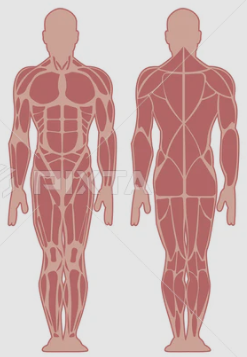
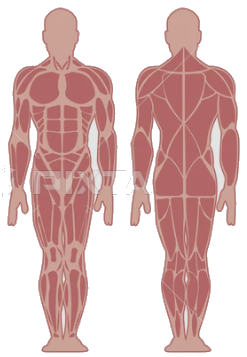
Recovery map: transparent figure background + green base state
Flood-fill background removal from muscle.png corners erases the solid gray
(229,229,229) background (41,883 pixels), leaving figures on transparent.
Adds dColor() which returns green for unlogged muscles so all regions show
a recovery status by default. opa() simplified to constant 0.45. Table
badges unchanged and still show the correct Not Logged / Recovering etc text.

diff --git a/frontend/src/routes/recovery/+page.svelte b/frontend/src/routes/recovery/+page.svelte
@@ -40,10 +40,13 @@
     return m ? STATUS_COLOR[m.status] : '#333333';
   }
 
-  function opa(muscle) {
+  function dColor(muscle) {
     const m = muscles.find(m => m.muscle === muscle);
-    return (!m || m.status === 'gray') ? 0 : 0.45;
+    if (!m || m.status === 'gray') return STATUS_COLOR.green;
+    return STATUS_COLOR[m.status];
   }
+
+  function opa() { return 0.45; }
 
   function capitalize(s) {
     return s.charAt(0).toUpperCase() + s.slice(1);
@@ -84,27 +87,27 @@
             <image href="/muscle.png" x="0" y="0" width="247" height="357"/>
 
             <!-- Chest / Pectorals -->
-            <ellipse cx="48" cy="112" rx="20" ry="20" fill={color('chest')} opacity={opa('chest')}/>
-            <ellipse cx="76" cy="112" rx="20" ry="20" fill={color('chest')} opacity={opa('chest')}/>
+            <ellipse cx="48" cy="112" rx="20" ry="20" fill={dColor('chest')} opacity={opa()}/>
+            <ellipse cx="76" cy="112" rx="20" ry="20" fill={dColor('chest')} opacity={opa()}/>
 
             <!-- Shoulders / Anterior deltoid -->
-            <ellipse cx="22" cy="87" rx="13" ry="12" fill={color('shoulders')} opacity={opa('shoulders')}/>
-            <ellipse cx="101" cy="87" rx="13" ry="12" fill={color('shoulders')} opacity={opa('shoulders')}/>
+            <ellipse cx="22" cy="87" rx="13" ry="12" fill={dColor('shoulders')} opacity={opa()}/>
+            <ellipse cx="101" cy="87" rx="13" ry="12" fill={dColor('shoulders')} opacity={opa()}/>
 
             <!-- Biceps -->
-            <ellipse cx="17" cy="128" rx="8" ry="22" fill={color('biceps')} opacity={opa('biceps')}/>
-            <ellipse cx="106" cy="128" rx="8" ry="22" fill={color('biceps')} opacity={opa('biceps')}/>
+            <ellipse cx="17" cy="128" rx="8" ry="22" fill={dColor('biceps')} opacity={opa()}/>
+            <ellipse cx="106" cy="128" rx="8" ry="22" fill={dColor('biceps')} opacity={opa()}/>
 
             <!-- Abs -->
-            <rect x="38" y="136" width="47" height="68" rx="6" fill={color('abs')} opacity={opa('abs')}/>
+            <rect x="38" y="136" width="47" height="68" rx="6" fill={dColor('abs')} opacity={opa()}/>
 
             <!-- Quads -->
-            <rect x="27" y="220" width="30" height="82" rx="8" fill={color('quads')} opacity={opa('quads')}/>
-            <rect x="66" y="220" width="30" height="82" rx="8" fill={color('quads')} opacity={opa('quads')}/>
+            <rect x="27" y="220" width="30" height="82" rx="8" fill={dColor('quads')} opacity={opa()}/>
+            <rect x="66" y="220" width="30" height="82" rx="8" fill={dColor('quads')} opacity={opa()}/>
 
             <!-- Calves (front) -->
-            <ellipse cx="42" cy="328" rx="13" ry="18" fill={color('calves')} opacity={opa('calves')}/>
-            <ellipse cx="81" cy="328" rx="13" ry="18" fill={color('calves')} opacity={opa('calves')}/>
+            <ellipse cx="42" cy="328" rx="13" ry="18" fill={dColor('calves')} opacity={opa()}/>
+            <ellipse cx="81" cy="328" rx="13" ry="18" fill={dColor('calves')} opacity={opa()}/>
           </svg>
         </div>
 
@@ -115,30 +118,30 @@
             <image href="/muscle.png" x="0" y="0" width="247" height="357"/>
 
             <!-- Trapezius -->
-            <ellipse cx="185" cy="96" rx="33" ry="20" fill={color('traps')} opacity={opa('traps')}/>
+            <ellipse cx="185" cy="96" rx="33" ry="20" fill={dColor('traps')} opacity={opa()}/>
 
             <!-- Lats -->
-            <rect x="137" y="112" width="24" height="70" rx="8" fill={color('lats')} opacity={opa('lats')}/>
-            <rect x="209" y="112" width="24" height="70" rx="8" fill={color('lats')} opacity={opa('lats')}/>
+            <rect x="137" y="112" width="24" height="70" rx="8" fill={dColor('lats')} opacity={opa()}/>
+            <rect x="209" y="112" width="24" height="70" rx="8" fill={dColor('lats')} opacity={opa()}/>
 
             <!-- Mid back / rhomboids -->
-            <rect x="163" y="106" width="44" height="55" rx="6" fill={color('back')} opacity={opa('back')}/>
+            <rect x="163" y="106" width="44" height="55" rx="6" fill={dColor('back')} opacity={opa()}/>
 
             <!-- Triceps -->
-            <ellipse cx="134" cy="128" rx="8" ry="22" fill={color('triceps')} opacity={opa('triceps')}/>
-            <ellipse cx="236" cy="128" rx="8" ry="22" fill={color('triceps')} opacity={opa('triceps')}/>
+            <ellipse cx="134" cy="128" rx="8" ry="22" fill={dColor('triceps')} opacity={opa()}/>
+            <ellipse cx="236" cy="128" rx="8" ry="22" fill={dColor('triceps')} opacity={opa()}/>
 
             <!-- Glutes -->
-            <ellipse cx="167" cy="234" rx="21" ry="21" fill={color('glutes')} opacity={opa('glutes')}/>
-            <ellipse cx="208" cy="234" rx="21" ry="21" fill={color('glutes')} opacity={opa('glutes')}/>
+            <ellipse cx="167" cy="234" rx="21" ry="21" fill={dColor('glutes')} opacity={opa()}/>
+            <ellipse cx="208" cy="234" rx="21" ry="21" fill={dColor('glutes')} opacity={opa()}/>
 
             <!-- Hamstrings -->
-            <rect x="145" y="260" width="32" height="46" rx="8" fill={color('hamstrings')} opacity={opa('hamstrings')}/>
-            <rect x="193" y="260" width="32" height="46" rx="8" fill={color('hamstrings')} opacity={opa('hamstrings')}/>
+            <rect x="145" y="260" width="32" height="46" rx="8" fill={dColor('hamstrings')} opacity={opa()}/>
+            <rect x="193" y="260" width="32" height="46" rx="8" fill={dColor('hamstrings')} opacity={opa()}/>
 
             <!-- Calves (back) -->
-            <ellipse cx="161" cy="327" rx="13" ry="18" fill={color('calves')} opacity={opa('calves')}/>
-            <ellipse cx="209" cy="327" rx="13" ry="18" fill={color('calves')} opacity={opa('calves')}/>
+            <ellipse cx="161" cy="327" rx="13" ry="18" fill={dColor('calves')} opacity={opa()}/>
+            <ellipse cx="209" cy="327" rx="13" ry="18" fill={dColor('calves')} opacity={opa()}/>
           </svg>
         </div>
 
